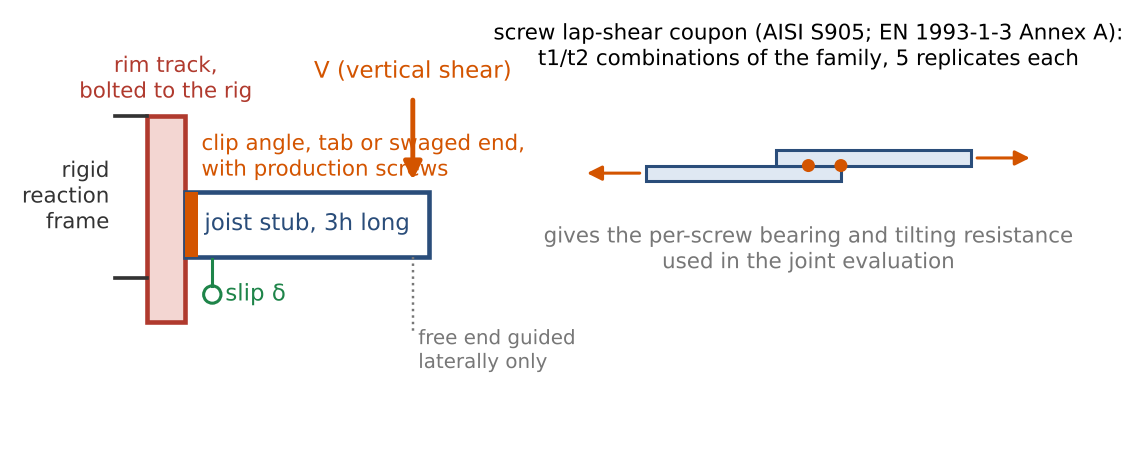
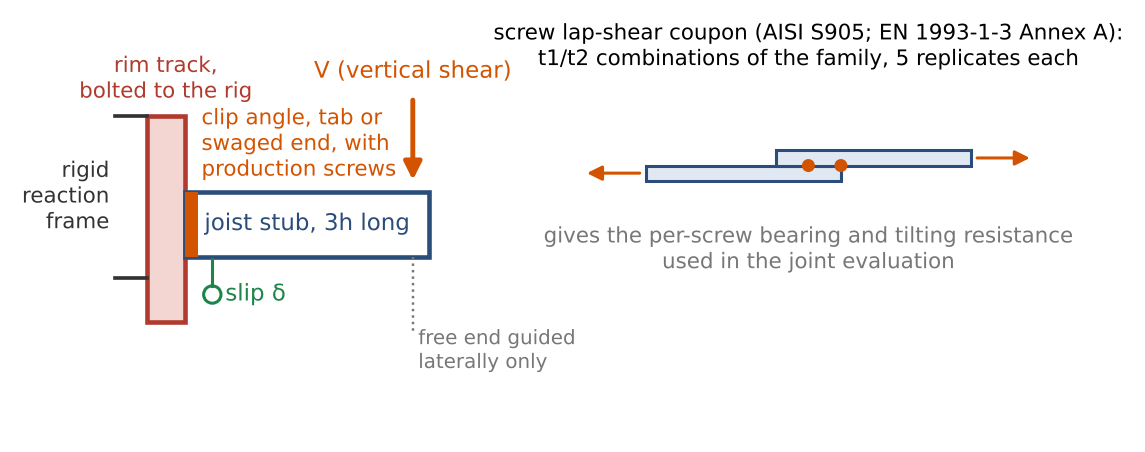
Test plan figure 4: keep the load arrow clear of the joint label
Claude-Session: https://claude.ai/code/session_019wCykoEviJfoGDNE6vKbms

Changed region(s): [[0.1528, 0.2478, 0.4585, 0.4027]]

diff --git a/docs/figures_test_plan.py b/docs/figures_test_plan.py
@@ -131,7 +131,7 @@ def f4():
     x0, y = 1.0, 0.4
     ax.add_patch(Rectangle((x0, y), 0.35, 1.9, fc="#f3d6d2", ec=BEARER, lw=1.5)); ax.text(x0 + 0.17, y + 2.0, "rim track,\nbolted to the rig", ha="center", fontsize=7, color=BEARER, va="bottom")
     beam(ax, x0 + 0.35, x0 + 2.6, y + 0.6, 0.6, STEEL, "joist stub, 3h long")
-    ax.add_patch(Rectangle((x0 + 0.35, y + 0.6), 0.12, 0.6, fc=LOAD, ec="none")); ax.text(x0 + 0.5, y + 1.28, "clip angle, tab or swaged end,\nwith production screws", fontsize=7, color=LOAD, va="bottom")
+    ax.add_patch(Rectangle((x0 + 0.35, y + 0.6), 0.12, 0.6, fc=LOAD, ec="none")); ax.text(x0 + 0.5, y + 1.28, "clip angle, tab or\nswaged end, with\nproduction screws", fontsize=7, color=LOAD, va="bottom")
     arrow(ax, x0 + 2.45, y + 2.1, y + 1.25); ax.text(x0 + 2.45, y + 2.2, "V (vertical shear)", color=LOAD, fontsize=7.5, va="bottom", ha="center")
     ax.plot([x0 + 2.45, x0 + 2.45], [y + 0.6, y - 0.1], color=GREY, lw=0.8, ls=":"); ax.text(x0 + 2.5, y - 0.05, "free end guided\nlaterally only", fontsize=6.5, color=GREY, va="top")
     gauge(ax, x0 + 0.6, y + 0.58, "slip δ")
